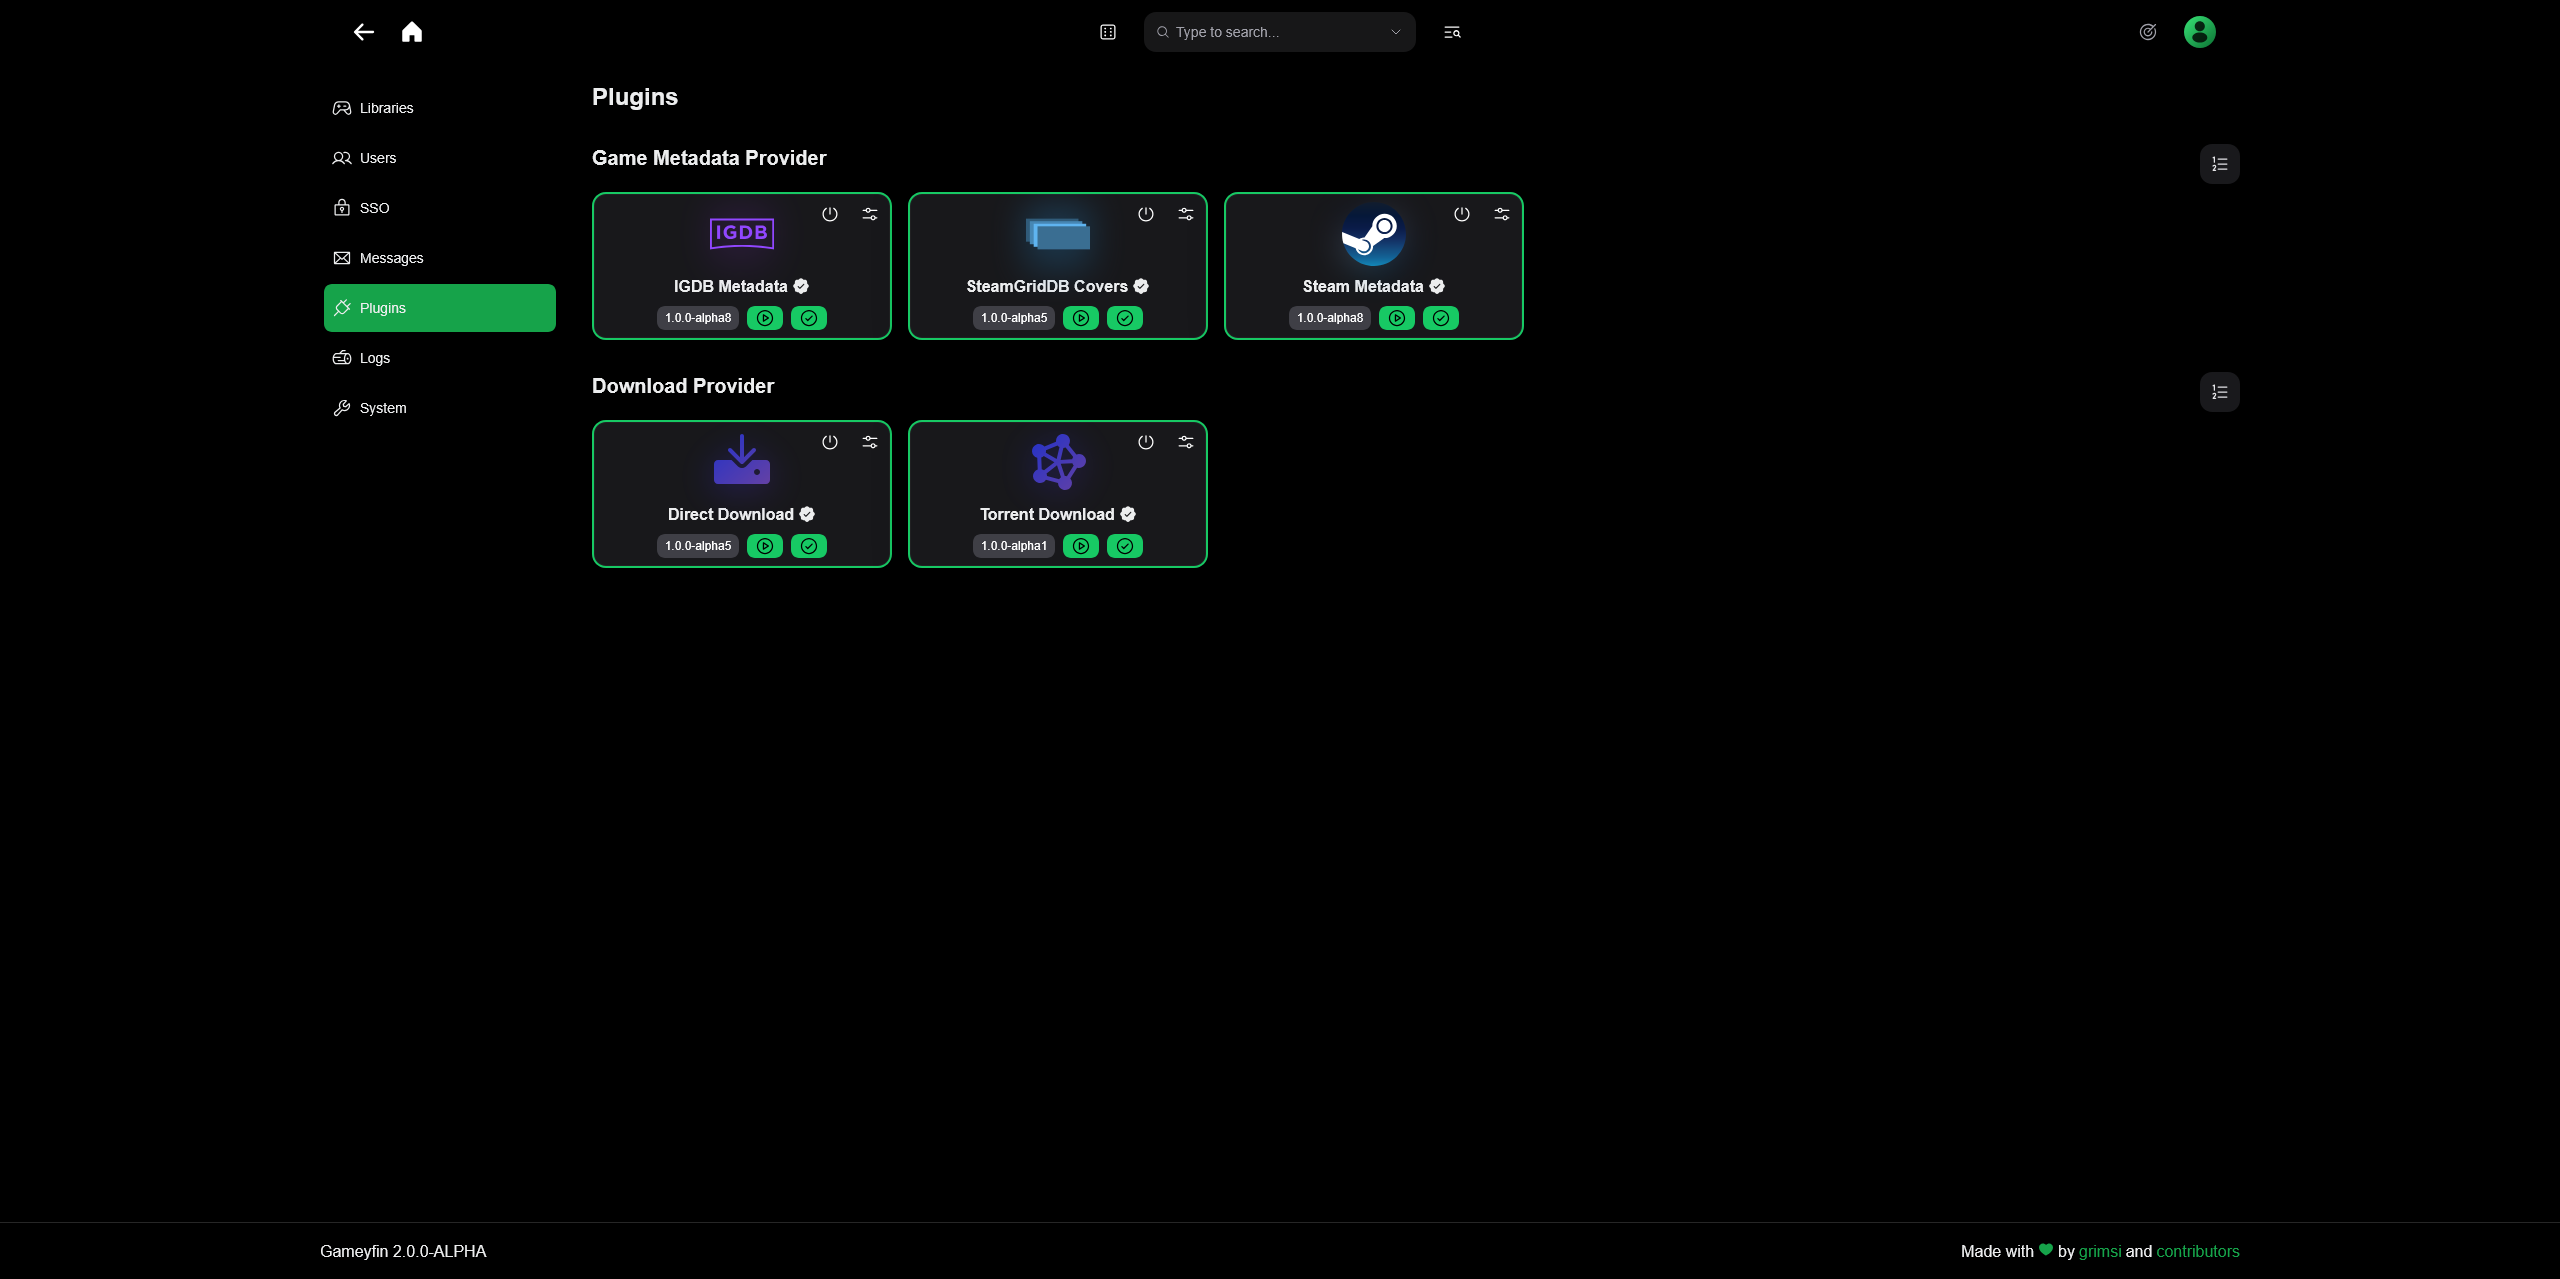
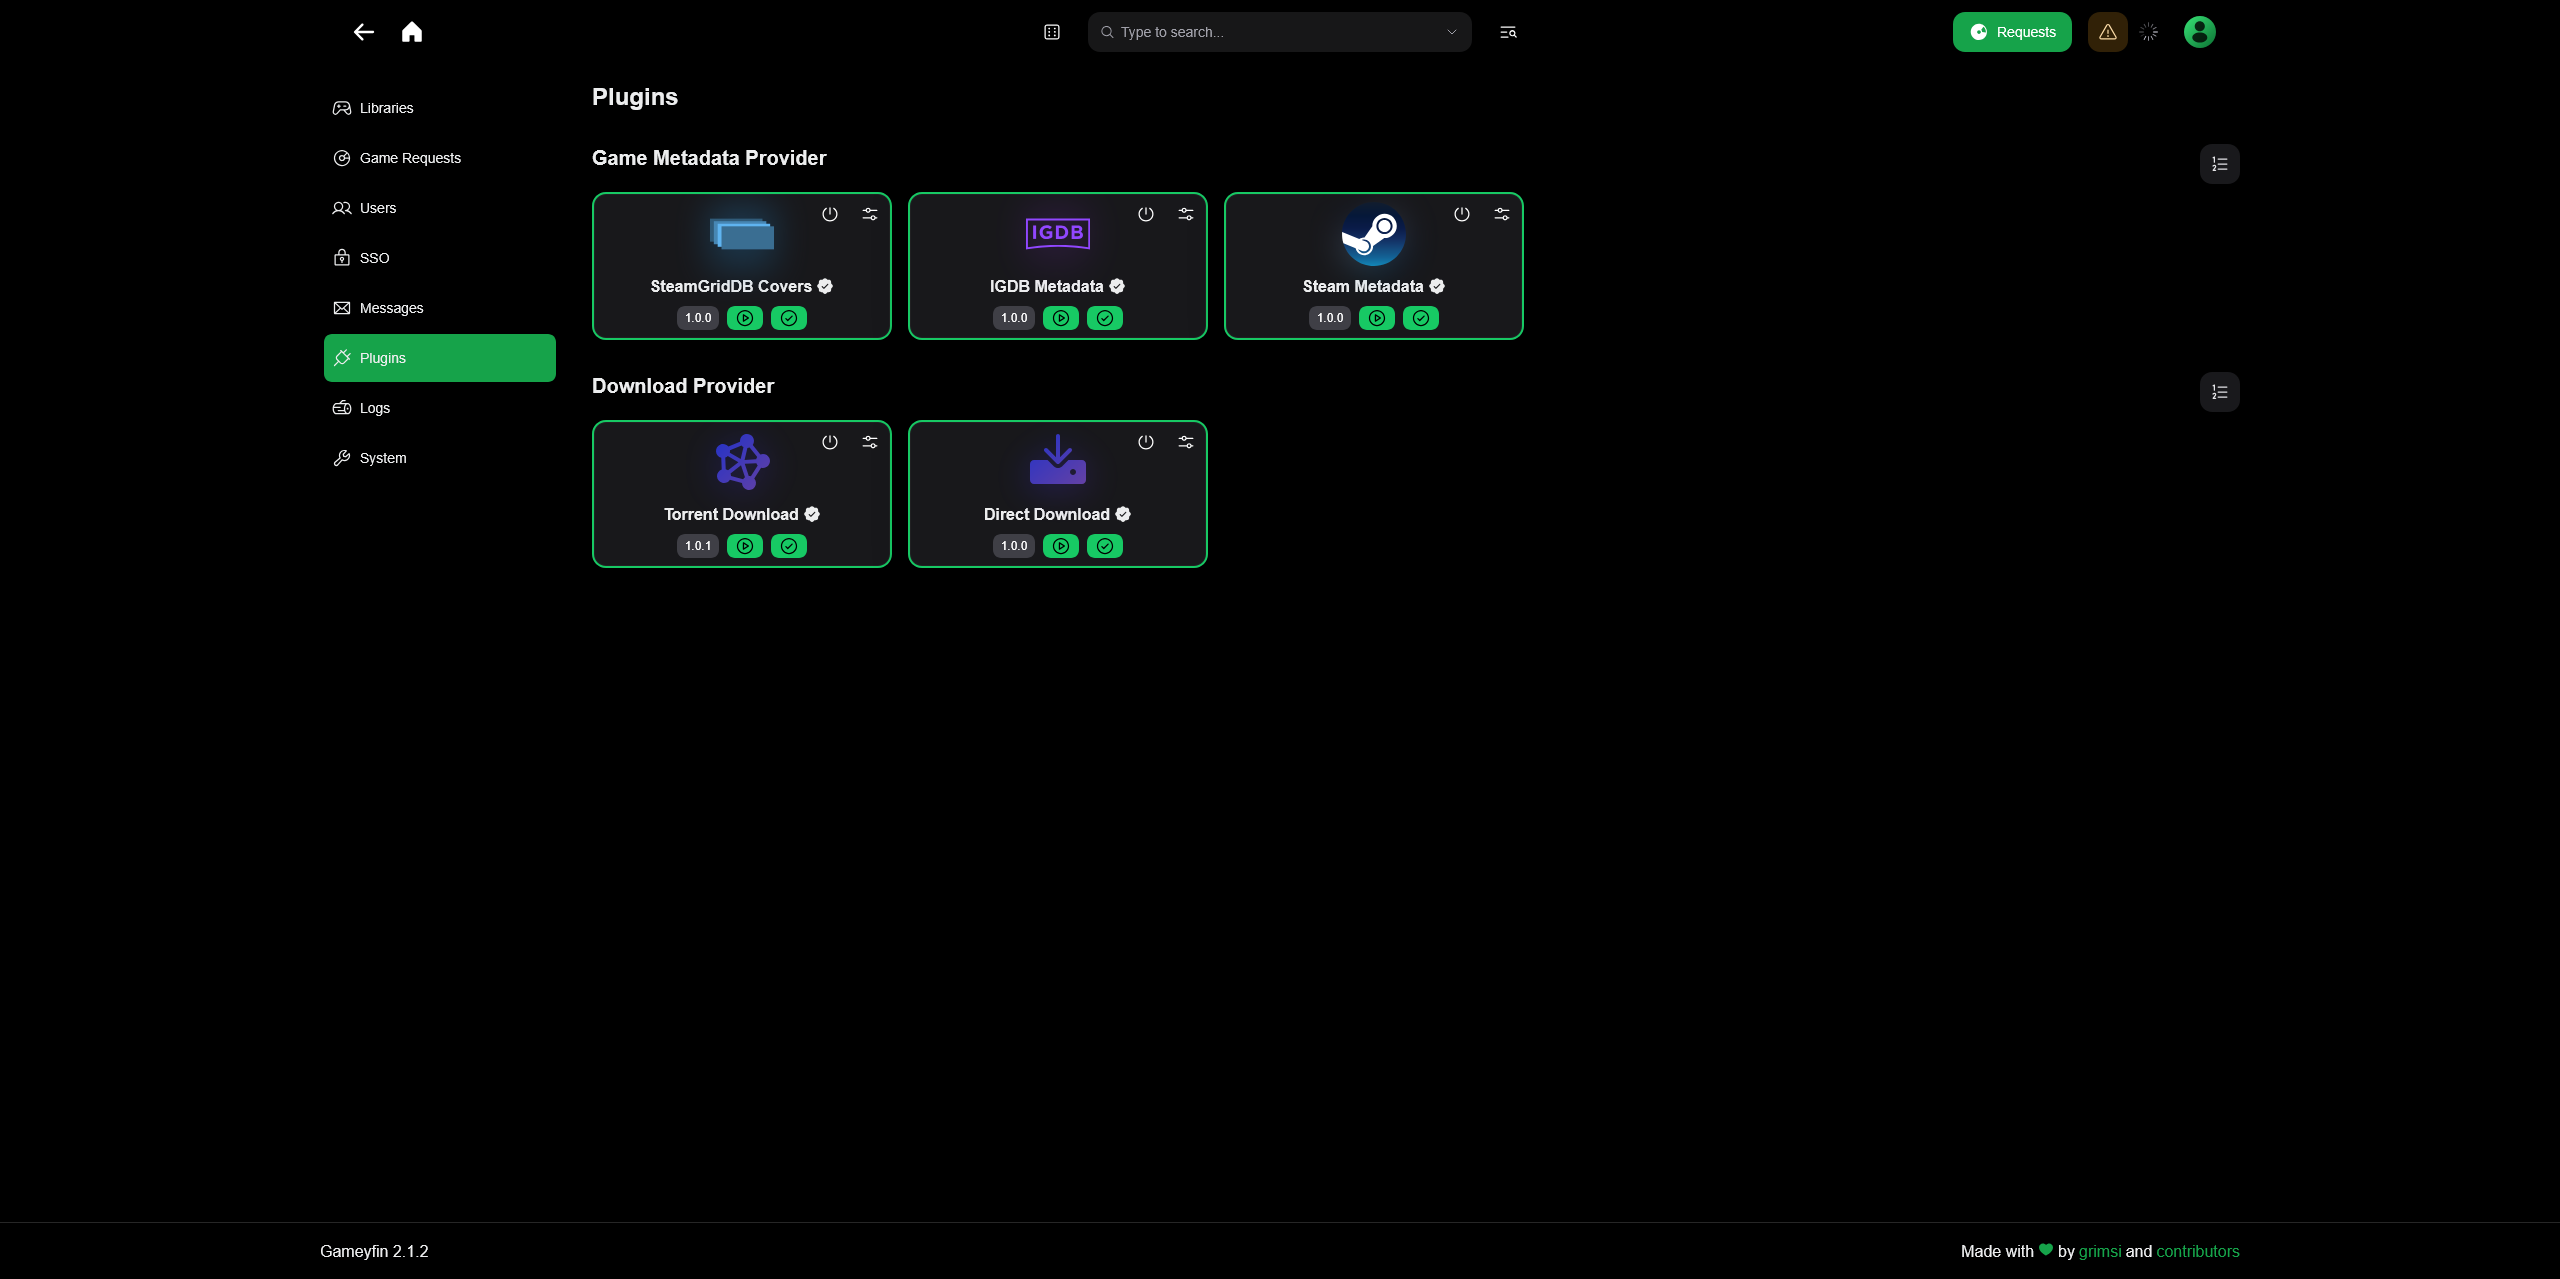
Update screenshots on Home site

diff --git a/docs/index.md b/docs/index.md
@@ -15,7 +15,7 @@ hide:
 <div class="grid" markdown>
 
 ![Home](assets/screenshots/home.png){ data-title="Simple" data-description="Gameyfin doesn't care where you purchased your games. Just point it to the folder and hit scan." }
-![Libraries](assets/screenshots/admin-libraries.png){ data-title="Flexible" data-description="Configure Gameyfin to fit your needs. Sensible defaults included." }
+![Libraries](assets/screenshots/game-requests.png){ data-title="Social" data-description="New: Users can request games and vote on existing requests directly in Gameyfin." }
 
 ![Game](assets/screenshots/game.png){ data-title="Beautiful" data-description="Give your video game library the presentation it deserves." }
 ![Plugins](assets/screenshots/admin-plugins.png){ data-title="Extendable" data-description="Use plugins to add new features to your personal instance." }
